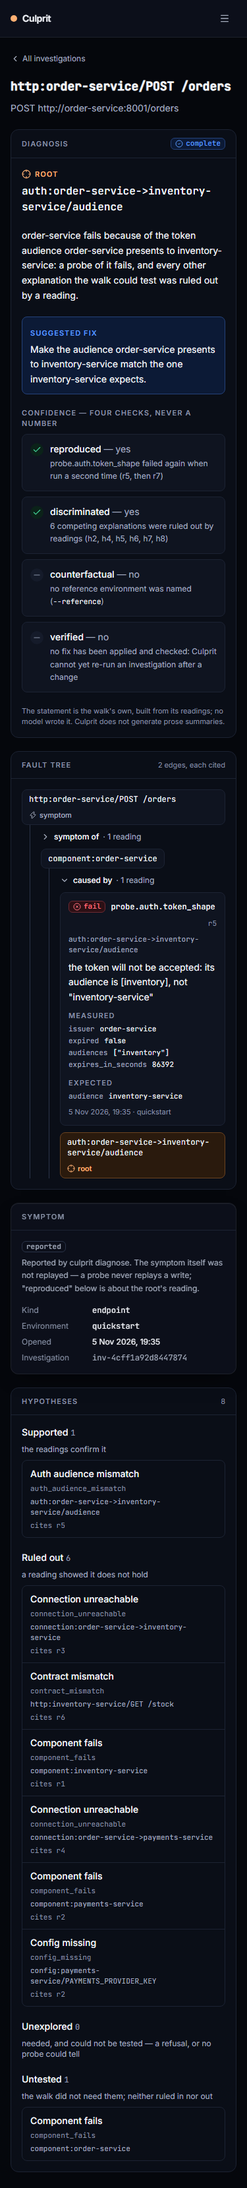
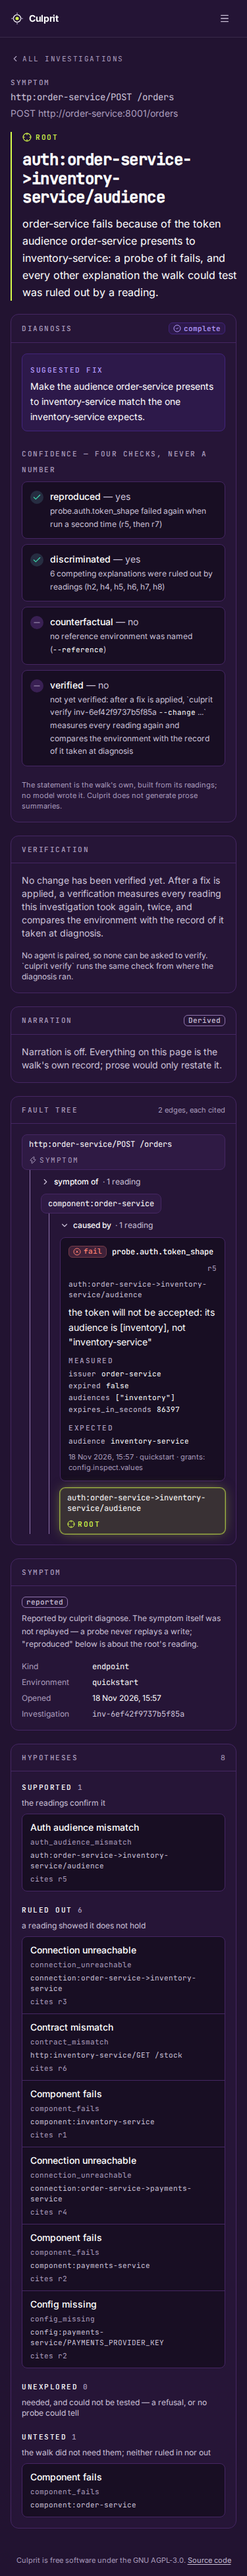
Handoff: Phase 40 part 1 complete, awaiting review; run report; screenshots; the README's N+1 case
C1 met over two runs (44333504867, 44336394900): the fault's sample 45
98.5 to 144.3 ms, the fix's slowest at most 12.3 ms. The README's N+1
case retaken by script from run 44333504867's log (page 500, 25 ms).

Every screen at 1280 px and the investigation at 375 px from run
44340916627's e2e artifact, in docs/screenshots/phase-40-review/ for the
review; the README's four screenshots from the same run. LIMITS: where
the dashboard's contrast is and is not measured. HANDOFF §1, §4, §5 and
CLAUDE.md say complete, awaiting review.

diff --git a/docs/HANDOFF.md b/docs/HANDOFF.md
@@ -64,10 +64,10 @@ wrong architectural turn gets caught before it is built on.
 | | |
 |---|---|
 | Plan of record | `docs/DELIVERY_PLAN.md` (Phases 40–43), from 2026-11-18. `docs/PERFORMANCE_PLAN.md` (Phases 36–39) and `docs/DIAGNOSTIC_PLAN.md` (Phases 26–35) are complete; D1–D8, the standing invariants and P1–P8 still bind. |
-| Current phase | **40, part 1 — the new identity: the dashboard** — `in progress` (PR #49, draft; C1 pushed and measured in CI). Brief: `docs/DELIVERY_PLAN.md` §2 (I1–I7) and Phase 40, "Part 1 — the dashboard", with C1 (carried from Phase 39) first. Step 0: `main`'s push run 44327031951 on `33df658`. |
+| Current phase | **40, part 1 — the new identity: the dashboard** — `complete`, awaiting review. PR #49; CI green on `1f3080a` (run 44340916627, every job and every PR check; no open alert). C1 met over runs 44333504867 and 44336394900. Report in §5; the screenshots in `docs/screenshots/phase-40-review/` are its first item for the review. |
 | Previous phase | **39, part 2 — the walk and the fault — merged as `33df658` (PR #48) and signed off 2026-11-18.** Run 44321940704 on `a832381`, the report's run 44326796071 and `main`'s push run 44327031951 on `33df658` green on every job, read from GitHub. Q38–Q40 ruled and carried out; two mutations of the join shown red by the architecture session; the run's seven decisions accepted, the first amended by C1. Recorded at the end of Phase 39 in `PERFORMANCE_PLAN.md`, which is complete. |
 | Deploy | **Paused, 2026-11-05 — Malcolm's decision.** `culprit-vm` is taken offline: it had served an unpatched, pre-Phase-14 API publicly since August. From Phase 32.2, `deploy` runs only when started by hand. Phase 33 builds against a local control plane; "deploy must be green by Phase 33" (2026-09-12) is superseded (`DIAGNOSTIC_PLAN.md`, Phase 33, "Added 2026-11-05"). |
-| Branch | `phase-40-identity`, to be cut from `origin/main` = `33df658`. Its first commit is the review: `git apply ../phase-39-2-review.patch`, then `git commit -F ../phase-39-2-review.txt` (`docs/DELIVERY_PLAN.md`, `docs/PERFORMANCE_PLAN.md`, `docs/HANDOFF.md`, `CLAUDE.md`). Then C1, as its own commit, pushed at once. Open a draft pull request and mark it ready when the run report is committed. Run the local gates one at a time, in the foreground. Do not stage `shared/uv.lock`. Do not run the fault library locally. Do not commit the owner's reference image. |
+| Branch | `phase-40-identity`, from `origin/main` = `33df658`; its first commit the review (`1ad98c7`). PR #49, marked ready when this report was committed. `shared/uv.lock` not staged; the fault library not run locally; the reference image not committed. |
 | Blocking questions | None. |
 
 ---
@@ -123,7 +123,7 @@ Status values: `not started` · `in progress` · `gates red` · `awaiting decisi
 | 38, part 2 | Lists | **complete** (PR #46, `02bae0d`) | **Signed off 2026-11-17** (architecture session): run 44167165860 green on every job on attempt 1, read from GitHub; the criteria checked on disk in place of the audits the run did not reach. The demo's count of 0 is accepted and carried to Phase 39 part 2. Phase 38 is complete. Recorded at the end of Phase 38 in `PERFORMANCE_PLAN.md`. |
 | 39, part 1 | The measurement | **complete** (PR #47, `6b0de5d`) | **Signed off 2026-11-18** (architecture session): the report's commit green on every job (run 44189651276), read from GitHub; the real-Postgres tests rerun, and two mutations shown red; the run's three decisions accepted. Recorded at the end of Phase 39 in `PERFORMANCE_PLAN.md`. |
 | 39, part 2 | The walk and the fault | **complete** (PR #48, `33df658`) | **Signed off 2026-11-18** (architecture session): runs 44321940704, 44326796071 (the report) and 44327031951 (`main`'s push) green on every job, read from GitHub; Q38–Q40 ruled and carried out; the walk's and `verify`'s tests rerun and two mutations of the join shown red; the run's seven decisions accepted, the first amended by C1. Phase 39 is complete, and with it `PERFORMANCE_PLAN.md`. Recorded at the end of Phase 39 there. |
-| 40, part 1 | The new identity: the dashboard | in progress (PR #49, draft) | **Brief (2026-11-18):** `docs/DELIVERY_PLAN.md` §2 (the identity, I1–I7) and Phase 40, "Part 1 — the dashboard": C1, the N+1 route's page carried from Phase 39, first, as its own commit pushed at once; then the work order from item 0, the assessment, written into the report before any screen changes; its criteria and what not to do. Step 0: `main`'s push run 44327031951 on `33df658`. Branch `phase-40-identity` from `origin/main` = `33df658`; its first commit is the review (`../phase-39-2-review.patch`, message `../phase-39-2-review.txt`). Open a draft pull request and mark it ready when the run report is committed. The report shows every screen at 1280 px and one at 375 px. Replace §5 with this run's report. Do not stage `shared/uv.lock`. |
+| 40, part 1 | The new identity: the dashboard | **complete, awaiting review** (PR #49; CI green on `1f3080a`, run 44340916627) | **Run 2026-11-18:** C1 met over two runs (page 500, budget 25 ms); items 0-8 built; the phase audit's ring finding fixed; every screen at 1280 px and one at 375 px in `docs/screenshots/phase-40-review/`. Report in §5. **Brief (2026-11-18):** `docs/DELIVERY_PLAN.md` §2 (the identity, I1–I7) and Phase 40, "Part 1 — the dashboard": C1, the N+1 route's page carried from Phase 39, first, as its own commit pushed at once; then the work order from item 0, the assessment, written into the report before any screen changes; its criteria and what not to do. Step 0: `main`'s push run 44327031951 on `33df658`. Branch `phase-40-identity` from `origin/main` = `33df658`; its first commit is the review (`../phase-39-2-review.patch`, message `../phase-39-2-review.txt`). Open a draft pull request and mark it ready when the run report is committed. The report shows every screen at 1280 px and one at 375 px. Replace §5 with this run's report. Do not stage `shared/uv.lock`. |
 
 **Standing task, not a phase — new advisories should be found on `main`, not
 mid-phase.** *(Folded into Phase 32.2, 2026-11-05.)* Three times now — OpenSSL in September, then PyJWT, certifi and
@@ -155,15 +155,49 @@ Claude Code overwrites this section at the end of every `/next`. Earlier
 reports are in `git log -p docs/HANDOFF.md`.
 
 ```
-Phase:        40, part 1 — the new identity: the dashboard
+Phase:        40, part 1 — the new identity: the dashboard (with C1, carried
+              from Phase 39)
 Branch:       phase-40-identity, from origin/main = 33df658. 1ad98c7 the
-              review; 61a0546 C1; then the assessment (this), then the
-              dashboard. PR #49 (draft).
-Run:          2026-11-18, /next. IN PROGRESS: the assessment is written
-              before any screen changes (work order item 0).
+              review; 61a0546 C1; 329171d the assessment (item 0, before
+              any screen changed); 8cba501 items 1-8; ded4f19 the audit's
+              findings; 1f3080a the e2e fix; then this report with the
+              README's N+1 case and the screenshots. PR #49.
+Run:          2026-11-18, /next. Local gates one at a time, in the
+              foreground. The fault library never run locally.
+Status:       COMPLETE pending review. CI green on 1f3080a (run
+              44340916627, every job; all 25 PR checks pass or skipping; no
+              open code-scanning alert). main has not moved (33df658), so
+              that is the merge result. Nothing blocking; no Q41.
 
-ITEM 0 — THE ASSESSMENT (written before any screen was changed)
+FIRST FOR THE REVIEW — THE LOOK
+  docs/screenshots/phase-40-review/ holds every screen at 1280 px and the
+  investigation at 375 px, from run 44340916627's e2e artifact
+  (e2e-screenshots-none), none touched by hand. Start with
+  investigation-complete-1280.png, investigation-complete-375.png,
+  investigations-1280.png and sign-in-1280.png. The folder is for this
+  review; remove it when the look is approved (32.1 part 2 did the same).
+  The README's four screenshots in docs/screenshots/ are from the same run.
 
+C1 — THE DETAILS ROUTE'S PAGE 500, BUDGET 25 MS (61a0546)
+  DETAILS_PAGE 500 (the default page and the ?limit= cap);
+  response_items_max 500 at /products; latency_p95_ms 25. The whys and
+  LIMITS give page 500 and the measured range; test_manifest_budgets.py
+  pins 25 and 500; the library expects "ran 500 times for the 500 items".
+  No harness check added back (Q40). Every existing case kept its root and
+  verdict (both shards green in all three runs).
+  The check, from the LATENCY lines (fault: sample 45 >= 37.5 ms; fix:
+  slowest <= 16.7 ms, measured and in verify's runs):
+                               fault: sample 45      fix: slowest
+    44333504867 (61a0546)      144.3, 142.6          <= 12.3 (6.5, 7.0 measured)
+    44336394900 (8cba501)      102.1, 98.5           <= 6.2  (6.2, 5.8 measured)
+  MET in every reading of two runs. These runners were slower than the
+  architecture session's projection (about 50 ms at 500): the fault's
+  margin is wide; the fix's slowest stayed at the join's few ms.
+  The README's N+1 case retaken from run 44333504867's log (the README
+  OUTPUT block, copied by script; nothing typed): page 500, 25 ms,
+  "ran 500 times for the 500 items", sample 45 at least 143.653 ms.
+
+ITEM 0 — THE ASSESSMENT (committed in 329171d, before any screen changed)
   Routes and their jobs
     /login                    sign in to this control plane
     /investigations           every stored walk, newest first; an admin
@@ -177,58 +211,150 @@ ITEM 0 — THE ASSESSMENT (written before any screen was changed)
     /settings/users           accounts and roles (admin)
     /settings/agents          pairing and grants (admin)
     *                         not found; admins-only for a member
-
   The most important information on each screen
     investigation view   the root (or where the walk stopped) and its
                          statement; then the four checks; then the edges
-                         and their readings
     investigations       per row: the symptom and its root or stop
     login                the two fields and the one action
     settings             the list being managed, then the form
     incidents            that it is history; the timeline
     postmortems          titles and their embedding status
     not found            the path that was asked for, and the way back
+  Inconsistencies found
+    1 the answer was not the editorial moment (the h1 was the symptom);
+    2 glass on data (the Symptom card) and on a form (sign-in);
+    3 cantaloupe on the brand dot and an unused badge as well as the root;
+    4 "complete" and "admin" in the brand tone of links and the button;
+    5 three title sizes; 6 three field styles; 7 error text two ways
+    (boxed, bare, and mono in services); 8 labels uppercase sans in some
+    places, sentence case in others; 9 motion only colour, 150 ms, default
+    easing; 10 Vite's favicon, a CSS dot for a mark.
+  Data-heavy (dense, solid, quiet): the investigation view, the lists,
+  settings, incidents, postmortems. Expressive (graticule; glow on
+  sign-in only): sign-in, empty states, not found.
 
-  Inconsistencies found today
-    1. The answer is not the editorial moment. The investigation page's
-       h1 is the symptom (mono, up to 2xl) and the root is a base/lg
-       line beneath a small label: the question outranks the answer.
-    2. Glass is on data: the Symptom card (a definition list) and the
-       sign-in form. PRODUCTISATION §2 already said never on dense data;
-       I5 keeps forms solid too.
-    3. Cantaloupe (to become lime) also marks the brand dot and an
-       unused "highlight" badge variant: two meanings for one colour.
-    4. "complete" in the diagnosis badge and "admin" share the brand
-       tone with links and the primary button.
-    5. Three heading sizes for a page title: Page's h1 (xl/2xl),
-       sign-in and not-found (lg), the investigation (mono lg/2xl).
-    6. Field styles differ: Input has a strong border and subtle
-       placeholder; Textarea a hairline and muted placeholder; the
-       command input muted.
-    7. Error text two ways: boxed on fail-tint (sign-in, postmortem
-       editor) and bare text-xs (users, agents, services, verify), and
-       mono in services.
-    8. Section labels are uppercase sans at widest tracking in some
-       places and sentence case in others (Hypotheses' group titles);
-       identifiers are mono throughout, which I3 keeps.
-    9. The only motion is colour; dialogs fade and zoom; the fault tree's
-       chevron turns. Durations are 150 ms everywhere, easing default.
-    10. The favicon is Vite's; the mark is a dot drawn in CSS.
+ITEMS 1-8 (8cba501, ded4f19, 1f3080a)
+  1 Tokens. Surfaces are plum at other lightnesses (hue 270, saturation
+    44%): a well #180e23, the page #221331, panels #261537 .. #392053;
+    cream #fdfdfd, muted #cbc1d8, subtle #ab9dbd; violet fill and ring
+    #7540f5, violet text #b69cff; --culprit #d6fa4a (was --highlight),
+    plum on it; verdicts and severities re-derived (pass #3ddbae, fail and
+    breaks #ff8070, inconclusive #6cc6ff, degrades #ffaa52, plum-greys);
+    tints at 13% over plum, lines at 38%; a title and two display steps,
+    a mono label tracking, the spacing step, radius and shadow steps, a
+    culprit glow, 180 ms ease-out by default. test_design_tokens.py: the
+    new sets; every boundary 3:1 on every surface; the ring 3:1 where
+    controls sit; the anchors exactly; the surfaces plum by lightness
+    alone; the hue-separation test (30 degrees from lime and violet, or a
+    grey under 25% saturation).
+  2 Restraint. check_frontend_tokens.py allows culprit utilities only in
+    Diagnosis, FaultTree, InvestigationList (a row's root) and Brand (the
+    mark), glass only in AppHeader, dialog and tooltip; a declared file
+    that no longer uses its token fails.
+  3 Components: violet primary, quiet secondary/outline/ghost, a press;
+    one field style (a well inside a 3:1 boundary); no lime badge; Card
+    solid only; a mono Label; ErrorNote and SuccessNote (21 failure
+    paragraphs became ErrorNote); the graticule on empty states; glass
+    dialogs, palette and tooltips; violet ring 2 px, offset.
+  4 Screens. The investigation's h1 is its answer: the root in mono
+    display under the lime "Root" marker, a lime rule beside the
+    statement (the diagnosis line), the symptom a label above; a partial
+    is "Walk stopped at" in the inconclusive tone, never lime. The fault
+    tree's root node in the lime outline glow. Symptom card and sign-in
+    solid. One title scale; labels in mono capitals; code and readings
+    in wells.
+  5 Motion: 150-220 ms ease-out on hover, press, the tree's edges and
+    dialogs; nothing animates data.
+  6 The mark: a measuring ring with four ticks and a lime centre, in
+    Brand.tsx, frontend/public/favicon.svg (replacing Vite's),
+    docs/brand/mark.svg and wordmark.svg.
+  7 The screenshots retaken by e2e (above).
+  8 PRODUCTISATION §2's status line.
 
-  Data-heavy: dense, solid and quiet
-    the investigation view (tree, evidence, rubric, hypotheses,
-    verification), the investigations list, the three settings pages,
-    incidents and postmortems.
-  Expressive: the graticule, and the violet glow on sign-in only
-    sign-in, the empty states, not found.
+DECISIONS OF THIS RUN (for the review)
+  1 The answer's heading is the root subject (mono, display), with the
+    statement beneath it as the diagnosis line, rather than the whole
+    statement at display size: statements run to 300+ characters.
+  2 Lime marks four places: the investigation's root and diagnosis line,
+    the tree's root node, a list row's root, and the mark (the plan names
+    the mark's dot).
+  3 The ring is violet itself, as I2 says, so controls stay on the well,
+    the page, a panel or glass, where it measures 3.0-3.4:1. Violet is
+    2.3-2.8:1 on surface-2, surface-3 and the tints: no control sits there
+    (LIMITS, new entry). The alternative was a lighter ring.
+  4 The graticule is an SVG (two paths), because a pattern fill would
+    need a colour prop the token gate refuses.
+  5 A complete diagnosis with no remediation now says "The walk suggests
+    no fix for this root." (before: nothing).
 
-  What changes because of it (the plan's items 1-8 in this order)
-    the root statement becomes the investigation's editorial heading
-    with the lime marker, the symptom drops to a mono label above it;
-    glass leaves the Symptom card and the sign-in form; lime is the
-    root, the diagnosis line, the tree's root node and the mark only;
-    one title scale; one field style; one error note; labels in mono
-    capitals; I6's motion under the reduced-motion rule.
+CRITERIA
+  Every colour from a token; check-frontend-tokens and
+    test_design_tokens pass, with the restrictions and the hue
+    test; each mutation red                                   PASS
+  Contrast: text 4.5:1 on every surface; boundaries and the
+    ring 3:1                                                  PASS, the
+    ring as decision 3 (after the audit's finding, ded4f19)
+  Lime only where the answer is marked; glass only on
+    layered components                                        PASS (gate)
+  reducedMotion 'reduce': no transition (e2e)                 PASS (CI,
+    "motion: 150 to 220 ms, and none under reduced motion")
+  Nothing lost: every e2e assertion holds at four widths,
+    every route, keyboard-only                                PASS (CI
+    44340916627, e2e (none) and (stub)); the e2e diff only adds
+  The report shows every screen at 1280 and one at 375        PASS (above)
+  Do NOT: no functionality removed, no dependency (Inter 700
+    is in the installed package), no light theme, no data
+    animated, the reference image not committed               PASS
+  C1 as above                                                 PASS
+
+MUTATIONS SHOWN RED (each restored; the tree checked after)
+  bg-culprit on the primary button     check: "culprit token outside the
+                                       answer", button.tsx:17, exit 1
+  bg-glass on Evidence                 check: "glass token outside a
+                                       layered component", exit 1
+  --degrades back to #f2d75b           hue test: degrades-culprit
+  --inconclusive back to #b9a6ff       hue test: inconclusive-brand-fill,
+                                       inconclusive-brand
+  --line-strong #5a4c6a                3:1 test: 6 pairs
+  --surface-1 one step lighter         ring test: ring-on-surface-1
+  and five parametrised restriction mutations in the check's own tests.
+
+AUDITS
+  invariant-auditor (1ad98c7..8cba501): CLEAN. No gate weakened; C1
+    touched only the route's page, budgets, pins, the library's expected
+    text and LIMITS. Risks noted: the four decorative tokens are exempt
+    from contrast; the 25 ms budget was a projection (now measured, C1).
+  phase-auditor (1ad98c7..8cba501): NOT COMPLETE on one criterion — the
+    ring under 3:1 on controls this phase placed on surface-2 (sign-in
+    card, services connections box) and degrades-tint (the agent
+    notice's link). Fixed in ded4f19: all three on a panel or a well;
+    Card lost its surface-2 variant; RING_SURFACES says why. Its scope
+    note (the graticule on admins-only, not named by I4) also taken. Not
+    re-run after the fixes.
+
+LOCAL GATES (Windows, one at a time, in the foreground)
+  just lint, typecheck, lint-imports, check-schema-drift,
+  check-no-llm-imports, check-invariants, check-scan-coverage,
+  check-frontend-tokens, check_coupled_files: clean. just test: api 1,840
+  (6 skipped), worker 93, mcp_server 21, 39. Frontend: tsc -b, vite
+  build, oxlint (three only-export-components warnings, as on main), node
+  tests. Not run locally: the fault library (instructed), e2e.
+
+CI (PR #49)
+  44333504867 on 61a0546 (C1): success on every job.
+  44336394900 on 8cba501: e2e (none) and (stub) red on one tour test —
+    DiagnosisHeading was a <header>, so locator('header') found two;
+    every other job green, fault library included (C1's second run).
+  44338092108 on ded4f19: the same e2e failure, for the same reason.
+  44340916627 on 1f3080a: success on every job (deploy, publish
+    skipped); 25 PR checks pass or skipping; no open code-scanning alert
+    on refs/pull/49/merge. main not moved: the merge result.
+  This report's own commit runs on the pull request after it.
+
+NOT BUILT (as the brief says)
+  No light theme; no dependency; nothing removed; no data animated; the
+  reference image not committed; the README rewrite, hero, captures and
+  diagrams are part 2.
 ```
 
 ## §6. Escalate to the architecture session when

diff --git a/README.md b/README.md
@@ -827,25 +827,25 @@ measures, and only beneath a route over its declared latency budget. There
 response: a statement called at least once per item is the N+1. In any
 other environment it is not asked, and the diagnosis says so in one
 sentence. The fault library plants one on the demo's `GET /products/details`
-(`N_PLUS_ONE_FAULT=details-per-product`, a page of 200). This is that walk,
-from CI's log (run 44321940704):
+(`N_PLUS_ONE_FAULT=details-per-product`, a page of 500). This is that walk,
+from CI's log (run 44333504867):
 
 ```
 Symptom    http:inventory-service/GET /products/details
            GET http://inventory-service:8002/products/details
            reproduced read-only (r2)
-Environment faults-inventory-isolated   investigation inv-92a2ef322b20d5a9
+Environment faults-inventory-isolated   investigation inv-44e702ec65e944b9
 
 Diagnosis (COMPLETE)
   root   http:inventory-service/GET /products/details
-  inventory-service is slow because GET /products/details on inventory-service runs one statement per item it returns: statement 8878744738955718652 (SELECT description, weight_grams FROM product_details WHERE product_id = $1) ran 200 times for the 200 items one request returned. The route is over the latency budget declared for it, and nothing it calls on the request path is slow.
+  inventory-service is slow because GET /products/details on inventory-service runs one statement per item it returns: statement 8878744738955718652 (SELECT description, weight_grams FROM product_details WHERE product_id = $1) ran 500 times for the 500 items one request returned. The route is over the latency budget declared for it, and nothing it calls on the request path is slow.
   fix    Load the relation for every item in one statement, a join or one query over the items' keys, in place of statement 8878744738955718652 (SELECT description, weight_grams FROM product_details WHERE product_id = $1) run once per item. Verification, not this recommendation, decides whether a change worked.
 
 Confidence — four checks, never a number
   reproduced      yes  probe.http.latency failed again when run a second time (r2, then r4)
   discriminated   no   no reading ruled out a competing explanation
   counterfactual  no   no reference environment was named (--reference)
-  verified        no   not yet verified: after a fix is applied, `culprit verify inv-92a2ef322b20d5a9 --change ...` measures every reading again and compares the environment with the record of it taken at diagnosis
+  verified        no   not yet verified: after a fix is applied, `culprit verify inv-44e702ec65e944b9 --change ...` measures every reading again and compares the environment with the record of it taken at diagnosis
 
 Fault tree — every edge cites the readings that established it
   http:inventory-service/GET /products/details
@@ -862,13 +862,13 @@ Untested — the walk did not need them; neither ruled out nor in (1)
 
 Readings
   r1   pass          probe.http.latency  http:inventory-service/GET /products
-       p95 is within the 25 ms budget: at 90% confidence it is at most 3.224 ms (sample 50 of 50)
+       p95 is within the 25 ms budget: at 90% confidence it is at most 4.855 ms (sample 50 of 50)
   r2   fail          probe.http.latency  http:inventory-service/GET /products/details
-       p95 is over the 20 ms budget: at 90% confidence it is at least 23.366 ms (sample 45 of 50)
+       p95 is over the 25 ms budget: at 90% confidence it is at least 143.653 ms (sample 45 of 50)
   r3   pass          probe.db.statements_per_request  http:inventory-service/GET /products/details
-       1 statement(s) ran at least once per item of 200: 8878744738955718652 (200 calls)
+       1 statement(s) ran at least once per item of 500: 8878744738955718652 (500 calls)
   r4   fail          probe.http.latency  http:inventory-service/GET /products/details
-       p95 is over the 20 ms budget: at 90% confidence it is at least 22.587 ms (sample 45 of 50)
+       p95 is over the 25 ms budget: at 90% confidence it is at least 140.837 ms (sample 45 of 50)
 ```
 
 With the join restored, `culprit verify` measures every reading again and

diff --git a/docs/LIMITS.md b/docs/LIMITS.md
@@ -3228,3 +3228,23 @@ per item, and these are its limits.
   diagnosis cites that request's counts. A route whose per-item loads
   depend on its query or its data is measured on the default page only (a
   probe sends no query).
+
+## The dashboard's contrast is measured on its surfaces, not on everything behind glass
+
+Phase 40 part 1 gave the dashboard its new identity (deep plum, electric
+violet, acid lime; `docs/DELIVERY_PLAN.md` §2). `scripts/tests/test_design_tokens.py`
+measures every text token at 4.5:1 on every surface and tint, every
+control's boundary at 3:1, and the violet focus ring at 3:1. Two things it
+does not cover:
+
+- **The focus ring is 3:1 only where controls sit.** Violet itself
+  (`#7540F5`) is 3.0 to 3.4:1 on the well, the page, a panel and glass, but
+  2.3 to 2.8:1 on the lighter inner surfaces and on every status tint. So
+  no control is placed on those; the test's `RING_SURFACES` says so, and
+  the rule is kept by review, not by a gate that reads the components. A
+  button or link put inside a tinted box would show a ring under 3:1.
+- **Glass is measured over the page, not over what scrolls under it.** The
+  header is translucent; text in it is measured composited over plum. Bright
+  content scrolling beneath it (there is little: the dashboard is dark
+  throughout) would lower the contrast of the header's muted text, softened
+  by the blur.

diff --git a/CLAUDE.md b/CLAUDE.md
@@ -12,8 +12,9 @@ the phase ledger; §5 the last run report. This file describes the repository;
 the handoff describes where the work is. If they disagree, the handoff wins.
 
 - **Current phase:** 40, part 1 (the new identity: the dashboard) — on
-  branch `phase-40-identity`, from `33df658`; not started. Phase 39 is
-  signed off, and `docs/PERFORMANCE_PLAN.md` is complete.
+  branch `phase-40-identity`, PR #49; complete and awaiting review (CI
+  green on `1f3080a`). Phase 39 is signed off, and
+  `docs/PERFORMANCE_PLAN.md` is complete.
 - **Plan of record:** `docs/DELIVERY_PLAN.md` (Phases 40–43), after
   `docs/DIAGNOSTIC_PLAN.md` (26–35) and `docs/PERFORMANCE_PLAN.md`
   (36–39). Read `DIAGNOSTIC_PLAN.md` §1 (D1–D8) and §2 (the core model),

diff --git a/docs/screenshots/phase-40-review/README.md b/docs/screenshots/phase-40-review/README.md
@@ -1,0 +1,7 @@
+# Phase 40 part 1 — screenshots for the review
+
+Every screen at 1280 px, and the complete investigation at 375 px, from CI
+run 44340916627 on `1f3080a` (the `e2e (none)` job's `e2e-screenshots-none`
+artifact, taken by `frontend/e2e/tour.spec.ts` and the other specs). None is
+edited by hand. This folder is for the owner's review of the new identity
+(`docs/DELIVERY_PLAN.md` §2); remove it once the look is approved.
